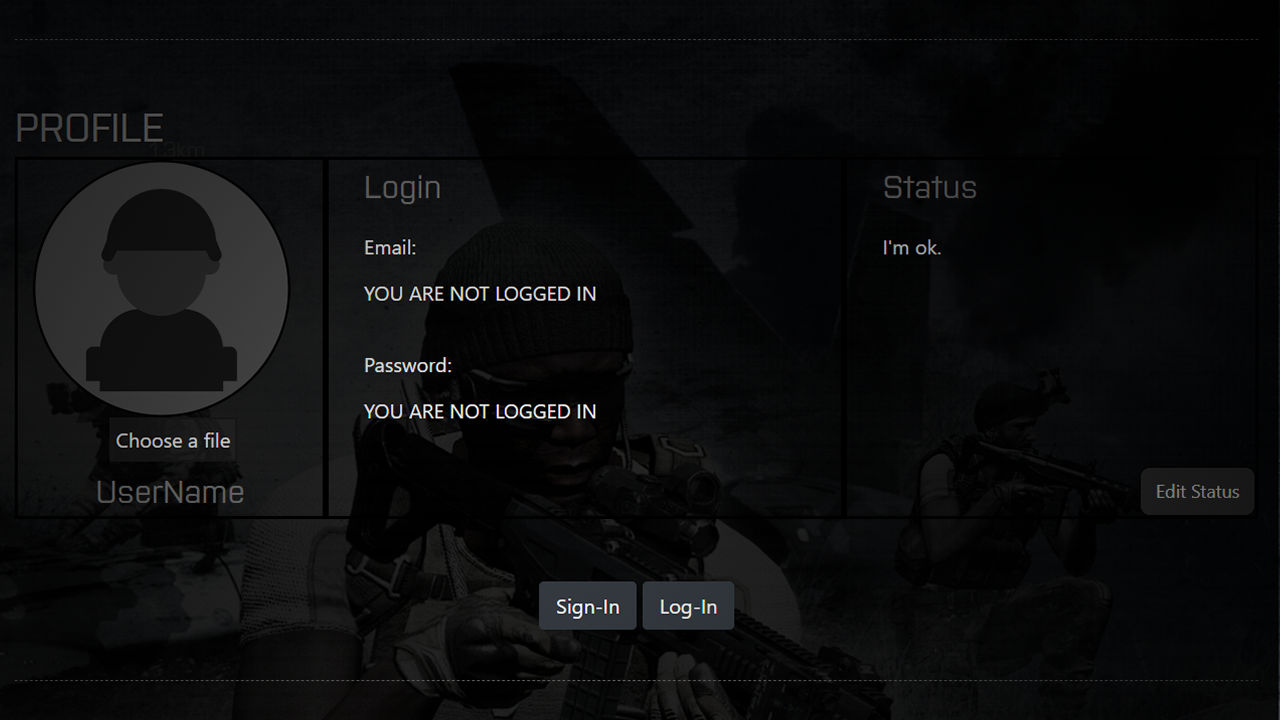
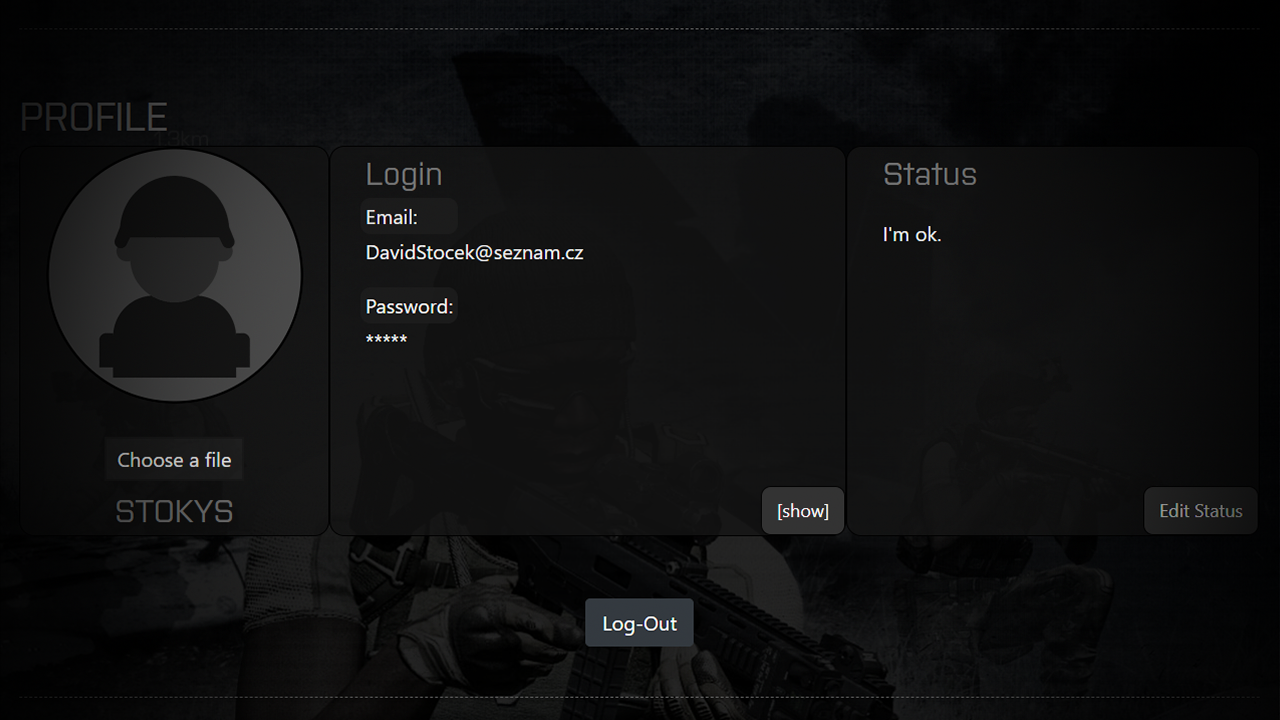
version_1.0.5

diff --git a/d/index.html b/d/index.html
@@ -193,23 +193,23 @@
             <hr class="new1">
             <h1>PROFILE</h1>
             <div class="row">
-                <div class="col-xl-3" style="border: 3px black solid;">
+                <div class="col-xl-3 colprof">
                     <img src="../img/avatar.png" alt="avatar" class="avatar" id="myAvatar">
-                    <input type="file" name="file" id="file" class="inputfile" />
-                    <label for="file">Choose a file</label>
+                    <input type="file" name="file" id="file" class="inputfile">
+                    <label for="file" class="vloz">Choose a file</label>
                     <h2 id="username">UserName</h2>
                 </div>
-                <div class="col-xl-5" style="border: 3px black solid;">
+                <div class="col-xl-5 colprof">
                     <h2>Login</h2>
-                    <p>Email: </p>
+                    <p class="important">Email: </p>
                     <p style="padding: 0px 0px 5px 20px;" id="e-mail">YOU ARE NOT LOGGED IN</p>
-                    <p>Password:</p>
+                    <p class="important">Password:</p>
                     <div>
                         <p style="padding: 0px 0px 5px 20px; margin: 0px;" id="password">YOU ARE NOT LOGGED IN</p>
                         <button id="pswshow" onclick="showpsswd()" class="custombutton">[show]</button>
                     </div>
                 </div>
-                <div class="col-xl-4" style="border: 3px black solid;">
+                <div class="col-xl-4 colprof">
                     <h2>Status</h2>
                     <p id="statustext">I'm ok.</p>
                     <p><button class="custombutton" data-toggle="modal" data-target="#modal3">Edit
@@ -244,7 +244,8 @@
 
             </div>
             <div class="center" style="padding-top: 5%;">
-                <button type="button" class="btn btn-dark btn-lg" data-toggle="modal" data-target="#modal1">
+                <button id="signinbutton" type="button" class="btn btn-dark btn-lg" data-toggle="modal"
+                    data-target="#modal1">
                     Sign-In
                 </button>
                 <div class="modal fade" id="modal1" tabindex="-1" role="dialog" aria-hidden="true">
@@ -278,12 +279,15 @@
                             <div class="modal-footer">
                                 <button type="button" class="btn btn-secondary" data-dismiss="modal">Close</button>
                                 <button type="button" class="btn btn-primary" data-dismiss="modal"
-                                    onclick="setData()">Submit</button>
+                                    onclick="setData(0)">Create Account</button>
+                                <button type="button" class="btn btn-primary" data-dismiss="modal"
+                                    onclick="setData(1)">..and Log-In</button>
                             </div>
                         </div>
                     </div>
                 </div>
-                <button type="button" class="btn btn-dark btn-lg" data-toggle="modal" data-target="#modal2">
+                <button id="loginbutton" type="button" class="btn btn-dark btn-lg" data-toggle="modal"
+                    data-target="#modal2">
                     Log-In
                 </button>
                 <div class="modal fade" id="modal2" tabindex="-1" role="dialog" aria-hidden="true">
@@ -316,6 +320,9 @@
                         </div>
                     </div>
                 </div>
+                <button id="logoutbutton" type="button" class="btn btn-dark btn-lg" onclick="logout()">
+                    Log-Out
+                </button>
             </div>
             <div class="alert alert-danger alert-dismissible fade show" role="alert" id="no">
                 <button type="button" class="close" data-dismiss="alert" aria-label="Close">

diff --git a/js/user.js b/js/user.js
@@ -10,6 +10,8 @@ var statustext = "I'm ok"
 
 var number = 1;
 
+var isLog = 0;
+
 var danger = document.getElementById("no");
 danger.style.display = "none";
 var warning = document.getElementById("almost");
@@ -19,16 +21,30 @@ success.style.display = "none";
 var show = document.getElementById("pswshow");
 show.style.display = "none";
 
-function setData() {
-    name = document.getElementById("nameinp").value;
-    email = document.getElementById("emailinp").value;
-    psw = document.getElementById("pasinp").value;
+document.getElementById("logoutbutton").style.display = "none";
+
+function setData(imi) {
+    if (imi == 1) {
+        name = document.getElementById("nameinp").value;
+        email = document.getElementById("emailinp").value;
+        psw = document.getElementById("pasinp").value;
+        success.style.display = "block";
+        document.getElementById("username").innerHTML = name;
+        document.getElementById("e-mail").innerHTML = email;
+        document.getElementById("password").innerHTML = "*****";
+        show.style.display = "block";
+        isLog = 1;
+        yesitis();
+    } else {
+        name = document.getElementById("nameinp").value;
+        email = document.getElementById("emailinp").value;
+        psw = document.getElementById("pasinp").value;
+    }
 }
 
 function getData() {
     checkemail = document.getElementById("email").value;
     checkpsw = document.getElementById("pas").value;
-
     if (checkemail == email) {
         if (checkpsw == psw) {
             success.style.display = "block";
@@ -36,6 +52,8 @@ function getData() {
             document.getElementById("e-mail").innerHTML = email;
             document.getElementById("password").innerHTML = "*****";
             show.style.display = "block";
+            isLog = 1;
+            yesitis();
 
         } else {
             warning.style.display = "block";
@@ -44,6 +62,7 @@ function getData() {
         danger.style.display = "block";
     }
 }
+
 
 function statusnew() {
     userstatus = document.getElementById("status").value;
@@ -59,4 +78,19 @@ function showpsswd() {
         show.innerHTML = "[show]";
     }
     number++;
+}
+
+function yesitis() {
+    document.getElementById("loginbutton").style.display = "none";
+    document.getElementById("signinbutton").style.display = "none";
+    document.getElementById("logoutbutton").style.display = "inline";
+}
+
+function logout() {
+    document.getElementById("loginbutton").style.display = "inline";
+    document.getElementById("signinbutton").style.display = "inline";
+    document.getElementById("logoutbutton").style.display = "none";
+    document.getElementById("username").innerHTML = "UserName";
+    document.getElementById("e-mail").innerHTML = "YOU ARE NOT LOGGED IN";
+    document.getElementById("password").innerHTML = "YOU ARE NOT LOGGED IN";
 }

diff --git a/index.html b/index.html
@@ -239,17 +239,19 @@
         </ol>
         <div class="carousel-inner" role="listbox">
           <div class="carousel-item active" style="margin: auto;">
-              <img src="img/slideshow1.png" style="filter:blur(1px);" alt="slideshow basics">
+            <img src="img/slideshow1.png" style="filter:blur(1px);" alt="slideshow basics">
             <div class="carousel-caption">
               <h1>Basics</h1>
-              <p>Do you not remember how to do basics like triggers and modules, or never done it? Then go right <a href="aa/index.html">here</a>!</p>
+              <p>Do you not remember how to do basics like triggers and modules, or never done it? Then go right <a
+                  href="aa/index.html">here</a>!</p>
             </div>
           </div>
           <div class="carousel-item">
             <img src="img/slideshow2.png" style="filter:blur(1px);" alt="slideshow advanced">
             <div class="carousel-caption">
               <h1>Advanced</h1>
-              <p>Or do you already know how to do the basics? The <a href="ba/index.html">Advanced</a> page is the right for you!</p>
+              <p>Or do you already know how to do the basics? The <a href="ba/index.html">Advanced</a> page is the right
+                for you!</p>
             </div>
           </div>
           <div class="carousel-item">
@@ -263,14 +265,16 @@
             <img src="img/slideshow4.png" style="filter:blur(1px);" alt="slideshow info">
             <div class="carousel-caption">
               <h1>Info</h1>
-              <p>Do you want to learn more about this page or Arma in general? You should head <a href="e/index.html">here</a>!</p>
+              <p>Do you want to learn more about this page or Arma in general? You should head <a
+                  href="e/index.html">here</a>!</p>
             </div>
           </div>
           <div class="carousel-item">
             <img src="img/slideshow5.png" style="filter:blur(1px);" alt="slideshow profile">
             <div class="carousel-caption">
               <h1>Profile</h1>
-              <p>You might want to check out our new <a href="d/index.html">Profile page</a> filled with Java Script.</p>
+              <p>You might want to check out our new <a href="d/index.html">Profile page</a> filled with working Java
+                Script.</p>
             </div>
           </div>
         </div>
@@ -428,6 +432,13 @@
               <li><a href="e/index.html#bis">Bohemia Interactive</a></li>
             </ul>
           </div>
+        </div>
+      </div>
+      <hr class="new1">
+      <h2>Profile</h2>
+      <div class="row">
+        <div class="col-xl-12">
+          <a href="d/index.html"><button class="accordion">Profile</button></a>
         </div>
       </div>
       <hr class="new1" style="margin-bottom: 0px;">

diff --git a/css/style.css b/css/style.css
@@ -23,7 +23,7 @@ body {
     width: 100%;
 }
 
-code{
+code {
     background-color: rgba(34, 34, 34, 0.75);
     border-radius: 10px;
     padding: 5px;
@@ -148,11 +148,12 @@ ol {
     width: 256px;
     height: 256px;
     border-radius: 50%;
-    margin: auto;
-    padding: 0px;
+    display: block;
+    margin-left: auto;
+    margin-right: auto;
 }
 
-.carousel-caption{
+.carousel-caption {
     background-color: rgb(10, 10, 10, .95);
     border: #646464 solid 1px;
     border-radius: 10px;
@@ -185,12 +186,18 @@ ol {
 .codetab>code {
     padding-left: 15px;
     border-radius: 0px;
-    background-color: rgba(0,0,0,0);
+    background-color: rgba(0, 0, 0, 0);
 }
 
 .col-xl-12 {
     border: #111 3px solid;
     background-color: rgba(25, 25, 25, 0.85);
+}
+
+.colprof {
+    background-color: rgba(20, 20, 20, .8);
+    border: 1px solid black;
+    border-radius: 15px;
 }
 
 .container {
@@ -203,7 +210,6 @@ ol {
 
 .container:hover .image {
     -webkit-filter: blur(2px);
-    /* Chrome, Safari, Opera */
     filter: blur(2px);
 }
 
@@ -248,6 +254,14 @@ ol {
     margin: auto;
 }
 
+.important {
+    background-color: rgba(30, 30, 30, .8);
+    border-radius: 10px;
+    padding: 3px 5px;
+    margin: 5px 0px 2px 15px;
+    width: 20%;
+}
+
 .image {
     display: block;
     width: 100%;
@@ -260,8 +274,6 @@ ol {
     width: 0px;
     height: 0px;
     opacity: 0;
-    padding-left: 70px;
-
 }
 
 .inputfile+label {
@@ -277,8 +289,8 @@ ol {
     cursor: pointer;
 }
 
-.jumbotron{
-    background-color: rgba(0,0,0,.8);
+.jumbotron {
+    background-color: rgba(0, 0, 0, .8);
 }
 
 .main {
@@ -296,7 +308,7 @@ ol {
     width: 100%;
 }
 
-.my-2{
+.my-2 {
     border-color: #ffffff;
 }
 
@@ -438,6 +450,14 @@ ol {
     margin-left: 20px;
 }
 
+.vloz {
+    display: block;
+    margin-left: auto;
+    margin-right: auto;
+    width: 50%;
+    text-align: center;
+}
+
 .vyber {
     padding: 8px 8px 400px 8px;
     width: 70%;
@@ -502,8 +522,10 @@ ol {
     .avatar {
         width: 256px !important;
         height: 256px !important;
-        margin-left: 90px;
         border-radius: 50%;
+        display: block;
+        margin-left: auto;
+        margin-right: auto;
     }
 
     .codetab {

diff --git a/e/index.html b/e/index.html
@@ -199,11 +199,22 @@
       <h2>Features</h2>
       <div class="refa">
         <ul>
-          <li>Mobile Compatibility</li>
+          <li>Mobile Compatibility.</li>
+          <li>Free.</li>
+          <li>Dark Theme.</li>
         </ul>
       </div>
-      <h2>New Releases</h2>
+      <h2>Release Log</h2>
       <div class="refa">
+        <p>Update: 1.0.5</p>
+        <ul>
+          <li>Updated Home Page.</li>
+          <li>Improved Profile Page.</li>
+          <li>Improved Profile Page script.</li>
+          <li>Updated styles.</li>
+          <li>Updated Images.</li>
+        </ul>
+        <hr class="new2">
         <p>Update: 1.0.2b</p>
         <ul>
           <li>Fixed Carousel for mobile devices</li>
